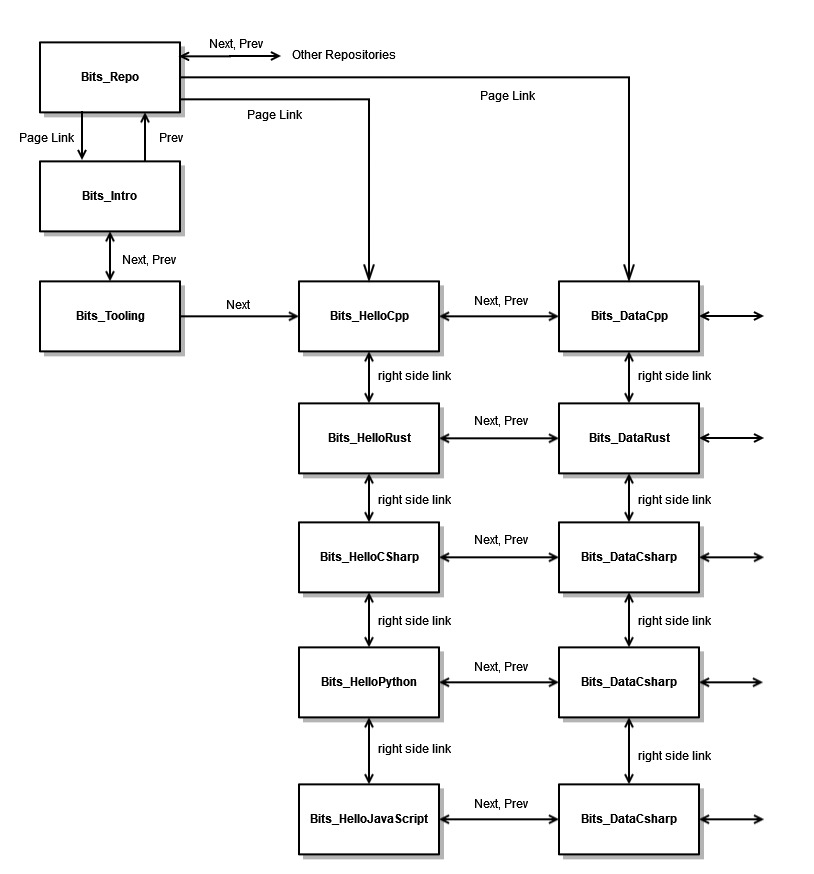
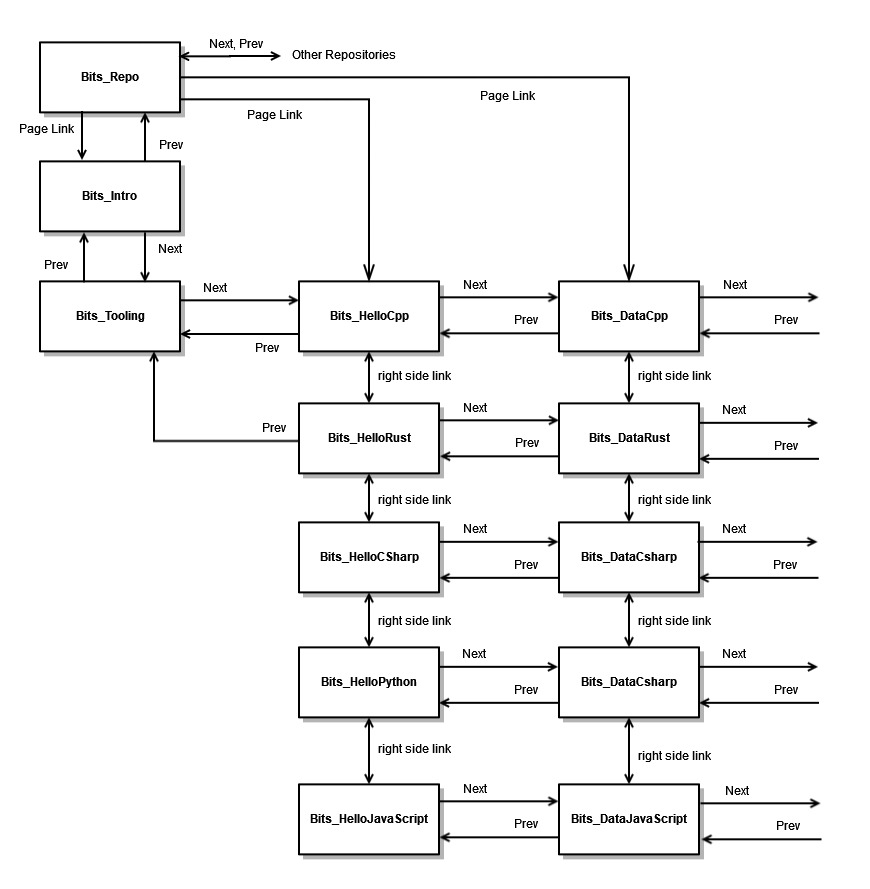
updated Bits Help image

Changed region(s): [[0.0307, 0.0309, 0.9521, 0.9886]]

diff --git a/BitsRepo.html b/BitsRepo.html
@@ -166,6 +166,9 @@
       <a href="#Resources/Bits/Bits_HelloPython.html">Bits_HelloPython</a>,
       <a href="#Resources/Bits/Bits_HelloJS.html">Bits_HelloJS</a>
     </t-b>
+    <t-b>
+      For help navigating among the Bits pages click the &quot;Help&quot; button on the top menu.
+    </t-b>
       <div class="clear"></div>
       <h3 id="snip">2.0 Snippets</h3>
       <t-b>
